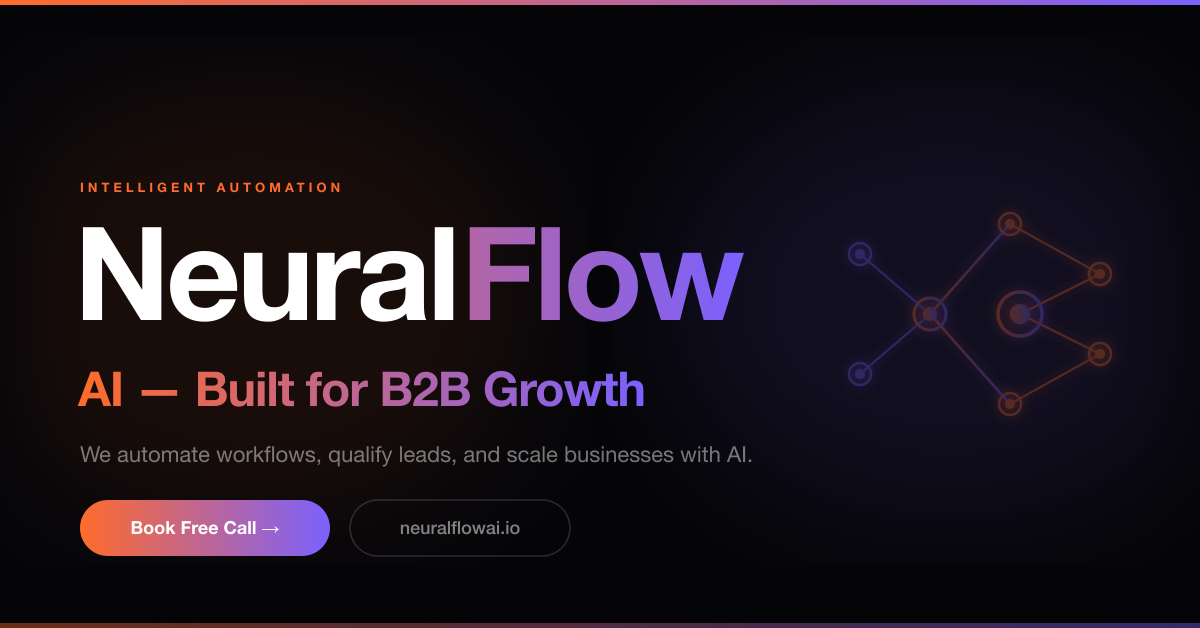
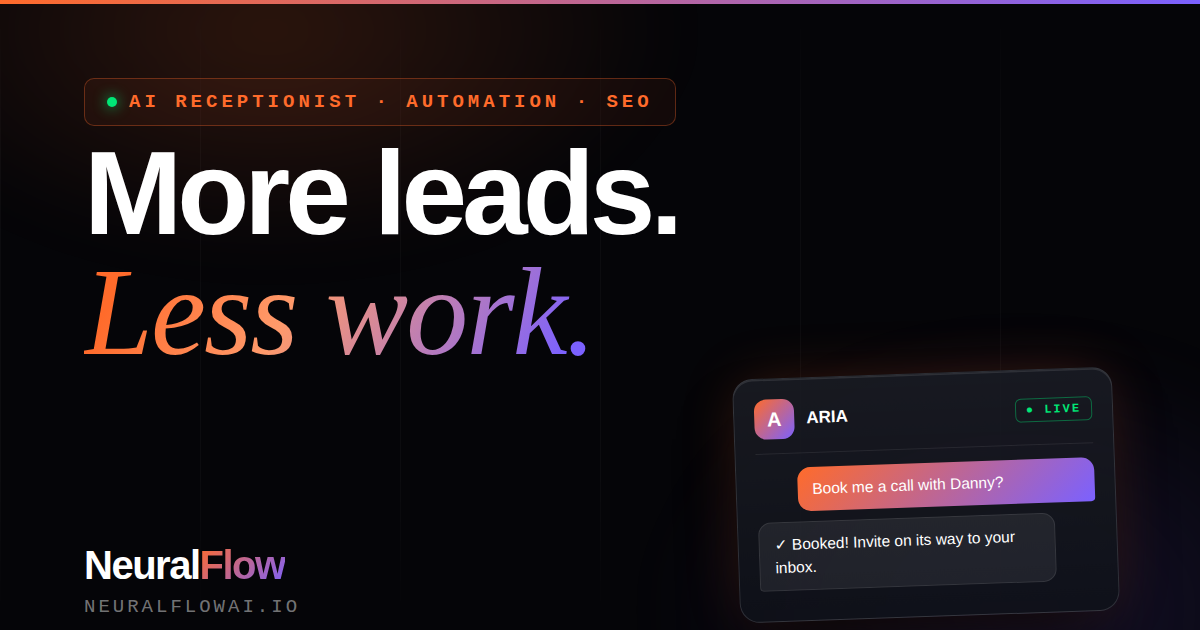
Add scrollspy nav, numbered service cards, view transitions, new OG image
- Scrollspy: nav links highlight as their section scrolls into view
- Service cards get JetBrains Mono index watermarks (01-06) that warm
  to orange on hover
- @user CSS for smooth cross-page navigation (Chrome 126+)
- New OG share image matching the redesigned identity: terminal chip,
  serif italic "Less work.", mini ARIA chat card with LIVE chip and the
  booked-call conversation

https://claude.ai/code/session_01EsMhNnHJfu3TM3yakBSGvY

diff --git a/index.html b/index.html
@@ -8307,6 +8307,32 @@
       }
     });
 
+    // ── Scrollspy: highlight the nav link for the section in view ──
+    (function() {
+      var map = [['#seo', 'seo'], ['#work', 'work'], ['#process', 'process'], ['#about', 'about']];
+      var links = {};
+      map.forEach(function(pair) {
+        var link = document.querySelector('.nav-links a[href="' + pair[0] + '"]');
+        var section = document.getElementById(pair[1]);
+        if (link && section) links[pair[1]] = { link: link, section: section };
+      });
+      var keys = Object.keys(links);
+      if (keys.length === 0) return;
+      var spy = new IntersectionObserver(function(entries) {
+        entries.forEach(function(entry) {
+          var id = entry.target.id;
+          if (!links[id]) return;
+          if (entry.isIntersecting) {
+            keys.forEach(function(k) { links[k].link.classList.remove('nav-active'); });
+            links[id].link.classList.add('nav-active');
+          } else if (links[id].link.classList.contains('nav-active') && !entry.isIntersecting) {
+            links[id].link.classList.remove('nav-active');
+          }
+        });
+      }, { rootMargin: '-25% 0px -55% 0px' });
+      keys.forEach(function(k) { spy.observe(links[k].section); });
+    })();
+
     // ── Footer clock: live local time in Bayonne, NJ (ET) ──
     var clockEl = document.getElementById('footerClock');
     function tickClock() {
@@ -8602,6 +8628,39 @@
         font-size: 15px;
         flex-shrink: 0;
       }
+    }
+
+    /* ── CROSS-PAGE VIEW TRANSITIONS (Chrome 126+, no-op elsewhere) ── */
+    @view-transition { navigation: auto; }
+
+    /* ── SCROLLSPY NAV — active section highlighting ──────────── */
+    .nav-link.nav-active {
+      color: #fff;
+    }
+    .nav-link.nav-active::before {
+      left: 0;
+      background: linear-gradient(90deg, #FF6B2B, #7B61FF);
+    }
+
+    /* ── NUMBERED SERVICE CARDS — mono index watermarks ───────── */
+    .services-grid { counter-reset: svc; }
+    .services-grid .tilt-card { counter-increment: svc; }
+    .services-grid .tilt-card .card-inner::before {
+      content: '0' counter(svc);
+      position: absolute;
+      top: 0;
+      right: 2px;
+      font-family: 'JetBrains Mono', monospace;
+      font-size: 12px;
+      font-weight: 500;
+      letter-spacing: 0.15em;
+      color: rgba(255, 255, 255, 0.22);
+      transition: color 0.3s;
+    }
+    .services-grid .tilt-card { position: relative; }
+    .services-grid .tilt-card .card-inner { position: relative; }
+    .services-grid .tilt-card:hover .card-inner::before {
+      color: rgba(255, 107, 43, 0.7);
     }
 
     /* ── TERMINAL MONO SECTION LABELS ─────────────────────────── */